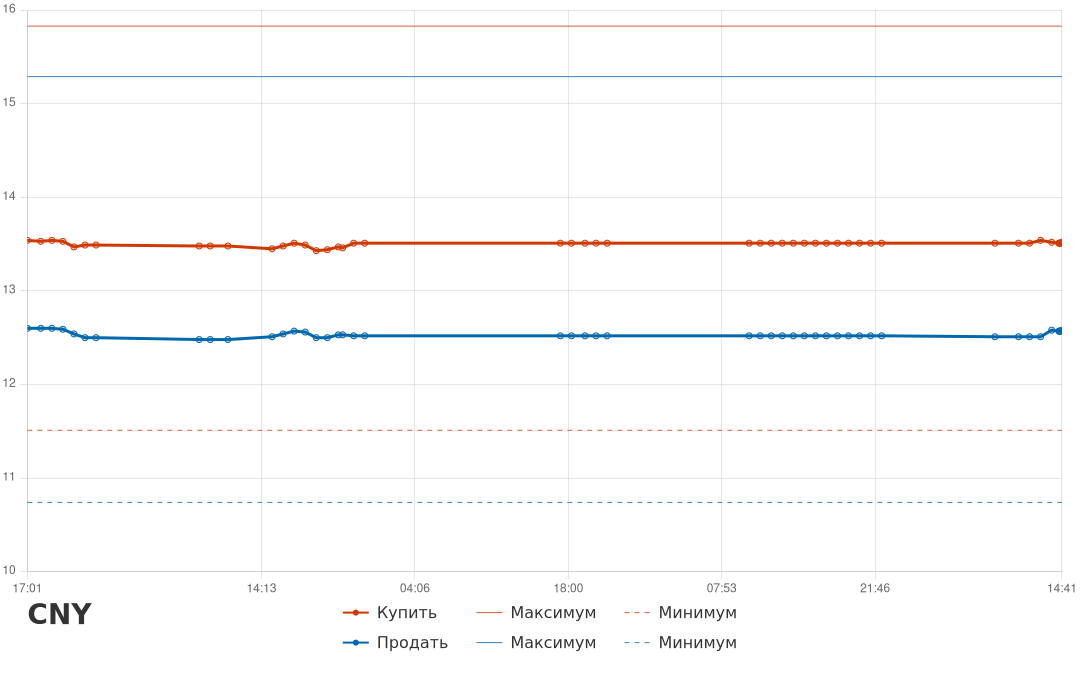
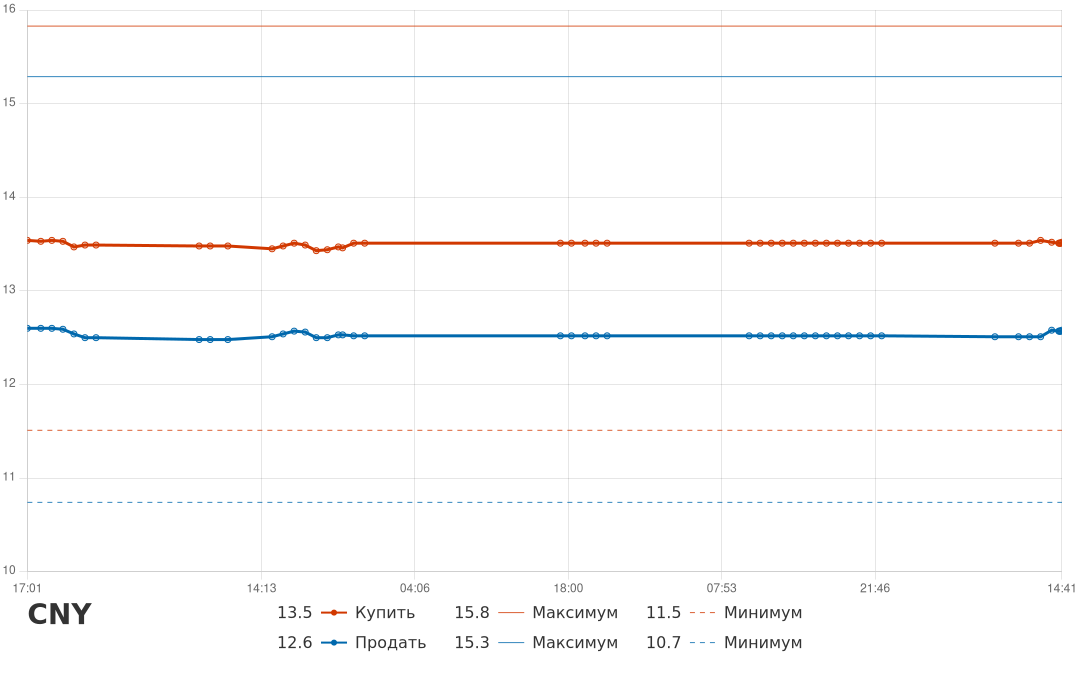
Show current numeric values next to legend lines
Values are right-aligned against the swatch, formatted to one decimal
place (trailing zero kept), for the rate/max/min entries in each row.

Changed region(s): [[0.2444, 0.8878, 0.7333, 0.949]]

diff --git a/chart.js b/chart.js
@@ -19,6 +19,8 @@ const CHART_STYLES = {
 const withAlpha = (rgbColor, alpha) =>
 	rgbColor.replace("rgb(", "rgba(").replace(")", `, ${alpha})`);
 
+const formatValue = (value) => value.toFixed(1);
+
 const LEGEND_ROW_HEIGHT = 30;
 const LEGEND_TOP_PADDING = 26;
 const LEGEND_HEIGHT = LEGEND_TOP_PADDING + LEGEND_ROW_HEIGHT * 2;
@@ -65,15 +67,24 @@ const twoRowLegendPlugin = {
 		}
 
 		// Ширина колонки — по самому длинному элементу среди всех строк,
-		// чтобы значки и подписи в разных строках стояли друг под другом
+		// чтобы значения, значки и подписи в разных строках стояли друг под другом
+		const valueGap = 8;
 		const columnCount = rows[0].length;
-		const columnWidths = Array.from({ length: columnCount }, (_, col) =>
+		const valueWidths = Array.from({ length: columnCount }, (_, col) =>
 			Math.max(
 				...rows.map(
-					(items) =>
-						swatchWidth + swatchGap + ctx.measureText(items[col].label).width,
+					(items) => ctx.measureText(formatValue(items[col].value)).width,
 				),
 			),
+		);
+		const labelWidths = Array.from({ length: columnCount }, (_, col) =>
+			Math.max(
+				...rows.map((items) => ctx.measureText(items[col].label).width),
+			),
+		);
+		const columnWidths = valueWidths.map(
+			(valueWidth, col) =>
+				valueWidth + valueGap + swatchWidth + swatchGap + labelWidths[col],
 		);
 		const totalWidth =
 			columnWidths.reduce((a, b) => a + b, 0) + itemGap * (columnCount - 1);
@@ -90,26 +101,34 @@ const twoRowLegendPlugin = {
 
 			items.forEach((item, i) => {
 				const lineY = y;
+				const swatchX = x + valueWidths[i] + valueGap;
+
+				ctx.setLineDash([]);
+				ctx.fillStyle = "#333";
+				ctx.textAlign = "right";
+				ctx.fillText(formatValue(item.value), x + valueWidths[i], lineY);
+				ctx.textAlign = "left";
+
 				ctx.strokeStyle = item.color;
 				ctx.fillStyle = item.color;
 				ctx.lineWidth = item.point ? 2 : 1;
 				ctx.setLineDash(item.dash || []);
 
 				ctx.beginPath();
-				ctx.moveTo(x, lineY);
-				ctx.lineTo(x + swatchWidth, lineY);
+				ctx.moveTo(swatchX, lineY);
+				ctx.lineTo(swatchX + swatchWidth, lineY);
 				ctx.stroke();
 
 				if (item.point) {
 					ctx.setLineDash([]);
 					ctx.beginPath();
-					ctx.arc(x + swatchWidth / 2, lineY, 3, 0, Math.PI * 2);
+					ctx.arc(swatchX + swatchWidth / 2, lineY, 3, 0, Math.PI * 2);
 					ctx.fill();
 				}
 
 				ctx.setLineDash([]);
 				ctx.fillStyle = "#333";
-				ctx.fillText(item.label, x + swatchWidth + swatchGap, lineY);
+				ctx.fillText(item.label, swatchX + swatchWidth + swatchGap, lineY);
 
 				x += columnWidths[i] + itemGap;
 			});
@@ -197,15 +216,18 @@ const createChart = (canvas, sellPoints, buyPoints, data, label) => {
 						[
 							{
 								label: CHART_STYLES.rateSell.label,
+								value: sellPoints[sellPoints.length - 1].y,
 								color: CHART_STYLES.rateSell.borderColor,
 								point: true,
 							},
 							{
 								label: "Максимум",
+								value: data.maxSell,
 								color: withAlpha(CHART_STYLES.rateSell.borderColor, 0.8),
 							},
 							{
 								label: "Минимум",
+								value: data.minSell,
 								color: withAlpha(CHART_STYLES.rateSell.borderColor, 0.8),
 								dash: [5, 5],
 							},
@@ -213,15 +235,18 @@ const createChart = (canvas, sellPoints, buyPoints, data, label) => {
 						[
 							{
 								label: CHART_STYLES.rateBuy.label,
+								value: buyPoints[buyPoints.length - 1].y,
 								color: CHART_STYLES.rateBuy.borderColor,
 								point: true,
 							},
 							{
 								label: "Максимум",
+								value: data.maxBuy,
 								color: withAlpha(CHART_STYLES.rateBuy.borderColor, 0.8),
 							},
 							{
 								label: "Минимум",
+								value: data.minBuy,
 								color: withAlpha(CHART_STYLES.rateBuy.borderColor, 0.8),
 								dash: [5, 5],
 							},
